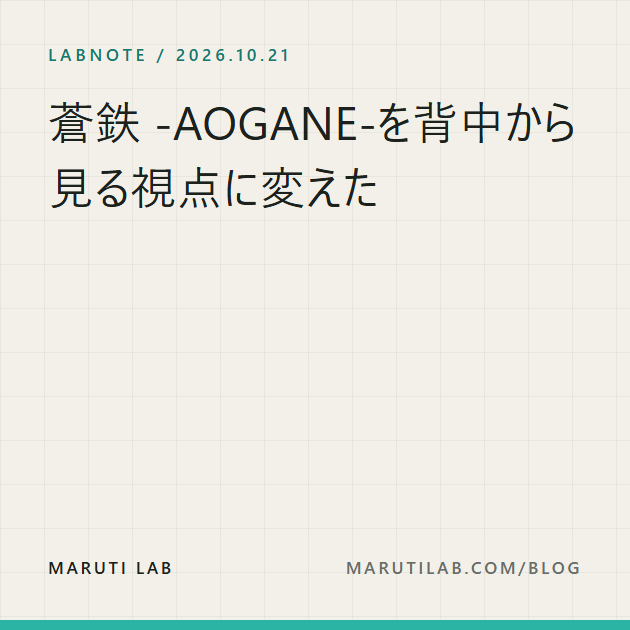
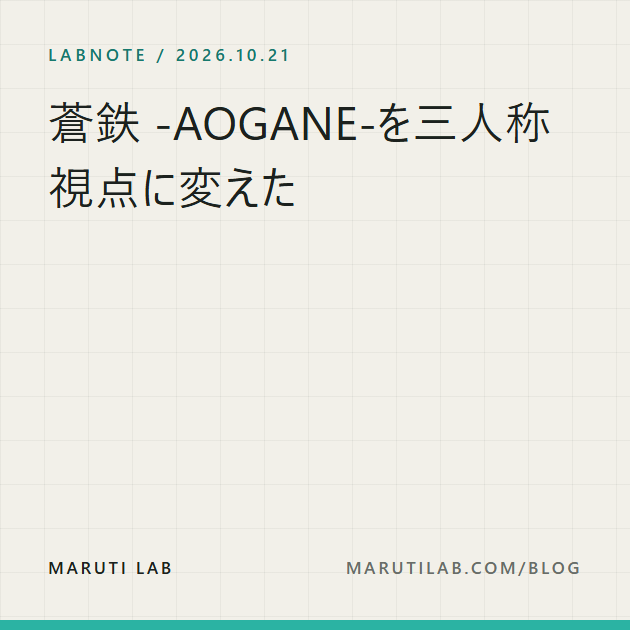
AOGANE note: call it the third-person view, not "seen from the back"
Title, description, the first H2 and a caption; share cards recaptured.

Changed region(s): [[0.0603, 0.2413, 0.6032, 0.3317], [0.6635, 0.1508, 0.9048, 0.2413]]

diff --git a/content/posts/aogane-third-person.md b/content/posts/aogane-third-person.md
@@ -1,7 +1,7 @@
 ---
-title: 蒼鉄 -AOGANE-を背中から見る視点に変えた
+title: 蒼鉄 -AOGANE-を三人称視点に変えた
 date: 2026-10-21
-description: 月面で戦うロボットゲーム「蒼鉄 -AOGANE-」を、機体の背中から見る三人称視点に変えました。脚と胴と腕がばらばらに動く操作、足首ごと曲がる車輪、900m四方の月面について書いています。
+description: 月面で戦うロボットゲーム「蒼鉄 -AOGANE-」を三人称視点に変えました。脚と胴と腕がばらばらに動く操作、足首ごと曲がる車輪、900m四方の月面について書いています。
 tags: [制作記, 蒼鉄]
 draft: true
 work: /aogane
@@ -10,12 +10,12 @@ image: /og/blog/aogane-third-person.png
 
 <!-- 導入は1〜2文。材料：蒼鉄はブラウザで遊ぶ月面のロボットアクション（/aogane、PCのみ）。2026-10-20〜21に三人称・新操作・広い月面・新キーアートをまとめて入れた -->
 
-## 一人称で作っていた蒼鉄を、背中から見るのが標準になった
+## 一人称で作っていた蒼鉄を三人称視点にした
 
 <!-- 材料：もともとはパイロットのアオイがHMD越しに戦う一人称のゲーム。2026-10-20に三人称を標準にした。カメラは右肩の後ろ、機体の動きに少し遅れてついてくる。Vで一人称と切り替え、選んだほうを覚えている。ARBALESTのスコープを覗くときだけ一人称に戻る -->
 
-![三人称視点で戦う蒼鉄。画面の左手前に機体の背中があり、奥に月面の施設と敵が見える](/blog/aogane-third-person.jpg)
-*機体を背中から見て戦う。上のBRIEFINGは最初の出撃で出る説明*
+![三人称視点で戦う蒼鉄。画面の手前に機体がいて、奥に月面の施設と敵が見える](/blog/aogane-third-person.jpg)
+*三人称視点の画面。上のBRIEFINGは最初の出撃で出る説明*
 
 ## 脚はWASD、胴は顔の向き、腕はマウスで動く
 
